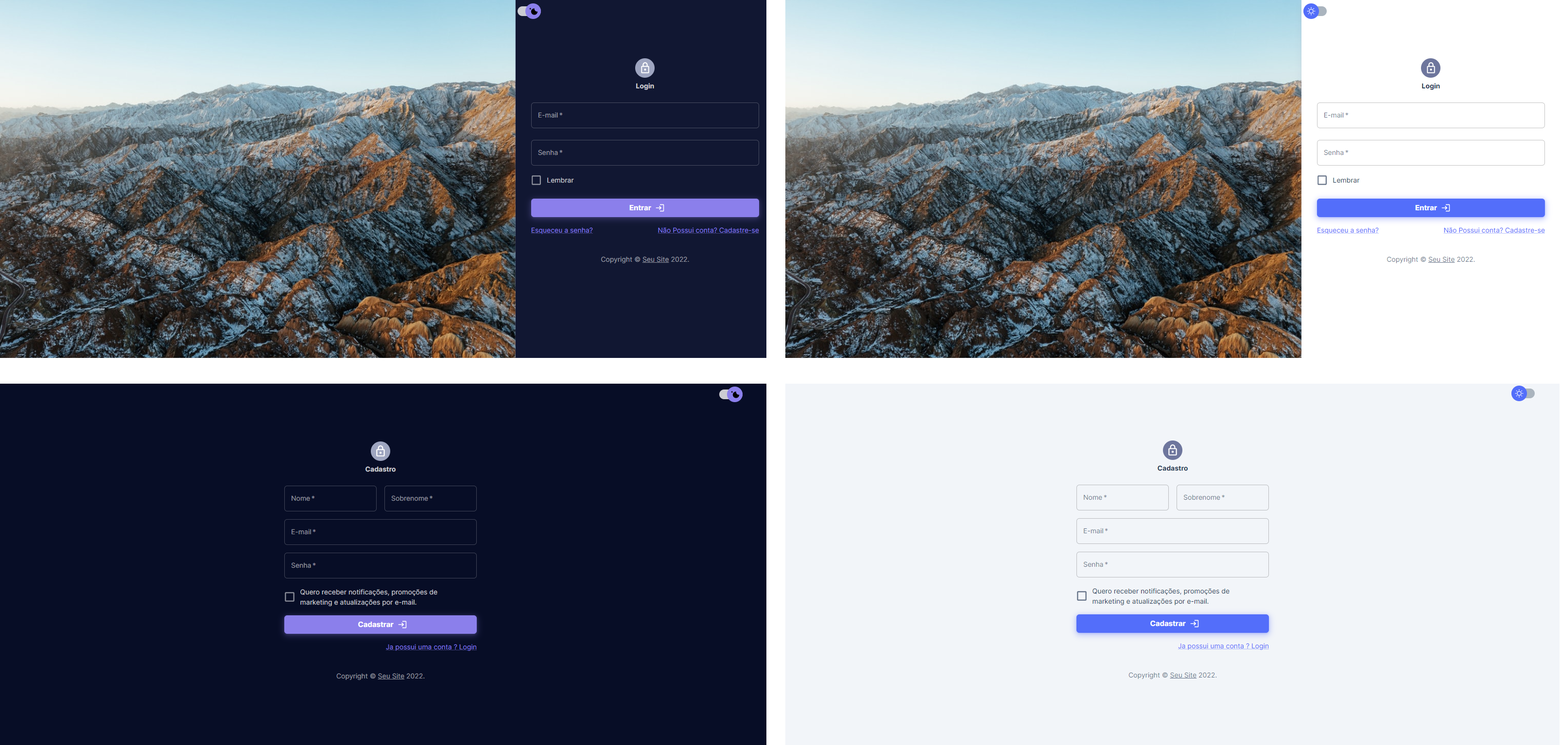
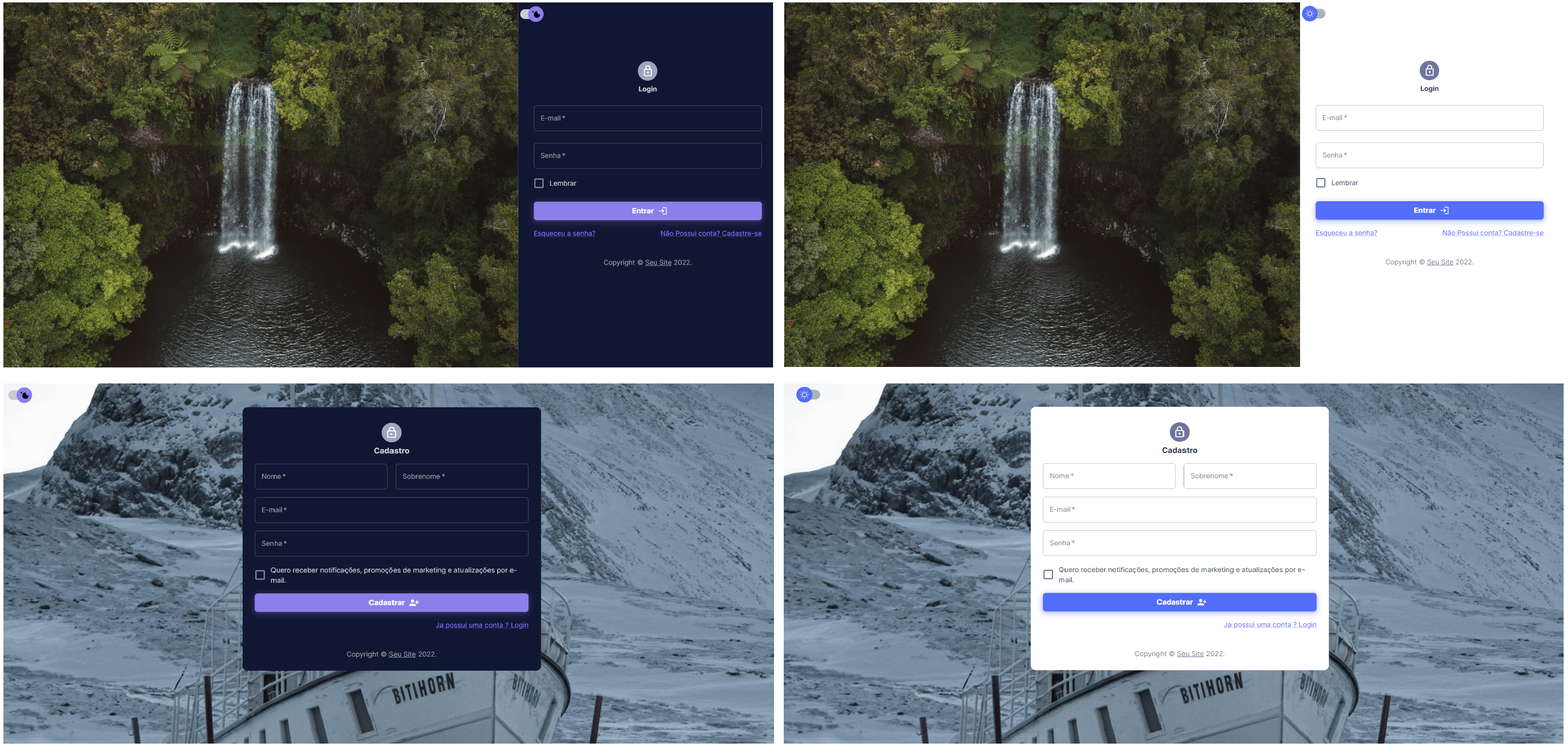
Otimização css dos containers da tela de cadastro

diff --git a/src/pages/SignUp.tsx b/src/pages/SignUp.tsx
@@ -5,11 +5,11 @@ import PersonAddAlt1Icon from '@mui/icons-material/PersonAddAlt1';
 import Avatar from '@mui/material/Avatar';
 import Box from '@mui/material/Box';
 import Checkbox from '@mui/material/Checkbox';
-import Container from '@mui/material/Container';
-import CssBaseline from '@mui/material/CssBaseline';
+import Container, { ContainerProps } from '@mui/material/Container';
 import FormControlLabel from '@mui/material/FormControlLabel';
 import Grid from '@mui/material/Grid';
 import Link from '@mui/material/Link';
+import { styled } from '@mui/material/styles';
 import TextField from '@mui/material/TextField';
 import Typography from '@mui/material/Typography';
 import AuthButton from 'components/elements/AuthButton';
@@ -17,6 +17,28 @@ import Switch from 'components/elements/Switch';
 import Copyright from 'components/widgets/Copyright';
 import { useTheme } from 'core/hooks/useTheme';
 import React, { ChangeEvent, FormEvent, useState } from 'react';
+
+//import LoginBackground from './../assets/login-background.png';
+
+const BackgroundContainer = styled(Container)<ContainerProps>(() => ({
+  backgroundImage: 'url(https://source.unsplash.com/random)',
+  backgroundRepeat: 'no-repeat',
+  backgroundSize: 'cover',
+  backgroundPosition: 'center',
+  minHeight: '100vh',
+  minWidth: '100vw',
+}));
+
+const SignupContainer = styled(Container)<ContainerProps>(({ theme }) => ({
+  display: 'flex',
+  flexDirection: 'column',
+  alignItems: 'center',
+  justifyContent: 'center',
+  padding: theme.spacing(3, 1),
+  backgroundColor: theme.palette.background.paper,
+  borderRadius: theme.general.borderRadiusLg,
+  boxShadow: theme.sidebar.boxShadow,
+}));
 
 const SignUp: React.FC = () => {
   const handleSubmit = (event: FormEvent<HTMLFormElement>) => {
@@ -43,102 +65,83 @@ const SignUp: React.FC = () => {
   };
 
   return (
-    <React.Fragment>
-      <Container
-        maxWidth="xl"
-        sx={{
-          margin: 0,
-          display: 'flex',
-          justifyContent: 'end',
-        }}
-      >
-        <Switch checked={checked} onChange={changeThemeHandle} />
-      </Container>
-      <Container component="main" maxWidth="xs">
-        <CssBaseline />
-        <Box
-          sx={{
-            marginTop: 8,
-            display: 'flex',
-            flexDirection: 'column',
-            alignItems: 'center',
-          }}
-        >
-          <Avatar sx={{ m: 1, bgcolor: 'secondary.main' }}>
-            <LockOutlinedIcon />
-          </Avatar>
-          <Typography component="h1" variant="h5">
-            Cadastro
-          </Typography>
-          <Box component="form" noValidate onSubmit={handleSubmit} sx={{ mt: 3 }}>
-            <Grid container spacing={2}>
-              <Grid item xs={12} sm={6}>
-                <TextField
-                  autoComplete="given-name"
-                  name="firstName"
-                  required
-                  fullWidth
-                  id="firstName"
-                  label="Nome"
-                  autoFocus
-                />
-              </Grid>
-              <Grid item xs={12} sm={6}>
-                <TextField
-                  required
-                  fullWidth
-                  id="lastName"
-                  label="Sobrenome"
-                  name="lastName"
-                  autoComplete="family-name"
-                />
-              </Grid>
-              <Grid item xs={12}>
-                <TextField
-                  required
-                  fullWidth
-                  id="email"
-                  label="E-mail"
-                  name="email"
-                  autoComplete="email"
-                />
-              </Grid>
-              <Grid item xs={12}>
-                <TextField
-                  required
-                  fullWidth
-                  name="password"
-                  label="Senha"
-                  type="password"
-                  id="password"
-                  autoComplete="new-password"
-                />
-              </Grid>
-              <Grid item xs={12}>
-                <FormControlLabel
-                  control={<Checkbox value="allowExtraEmails" color="primary" />}
-                  label="Quero receber notificações, promoções de marketing e atualizações por e-mail."
-                />
-              </Grid>
+    <BackgroundContainer>
+      <Switch checked={checked} onChange={changeThemeHandle} />
+      <SignupContainer maxWidth="sm">
+        <Avatar sx={{ m: 1, bgcolor: 'secondary.main' }}>
+          <LockOutlinedIcon />
+        </Avatar>
+        <Typography component="h1" variant="h4">
+          Cadastro
+        </Typography>
+        <Box component="form" noValidate onSubmit={handleSubmit} sx={{ mt: 2 }}>
+          <Grid container spacing={2}>
+            <Grid item xs={12} sm={6}>
+              <TextField
+                autoComplete="given-name"
+                name="firstName"
+                required
+                fullWidth
+                id="firstName"
+                label="Nome"
+                autoFocus
+              />
             </Grid>
-            <AuthButton
-              type="submit"
-              disabled={false}
-              label="Cadastrar"
-              icon={<PersonAddAlt1Icon />}
-            />
-            <Grid container justifyContent="flex-end">
-              <Grid item>
-                <Link href="/signin" variant="body2">
-                  Ja possui uma conta ? Login
-                </Link>
-              </Grid>
+            <Grid item xs={12} sm={6}>
+              <TextField
+                required
+                fullWidth
+                id="lastName"
+                label="Sobrenome"
+                name="lastName"
+                autoComplete="family-name"
+              />
             </Grid>
-          </Box>
+            <Grid item xs={12}>
+              <TextField
+                required
+                fullWidth
+                id="email"
+                label="E-mail"
+                name="email"
+                autoComplete="email"
+              />
+            </Grid>
+            <Grid item xs={12}>
+              <TextField
+                required
+                fullWidth
+                name="password"
+                label="Senha"
+                type="password"
+                id="password"
+                autoComplete="new-password"
+              />
+            </Grid>
+            <Grid item xs={12}>
+              <FormControlLabel
+                control={<Checkbox value="allowExtraEmails" color="primary" />}
+                label="Quero receber notificações, promoções de marketing e atualizações por e-mail."
+              />
+            </Grid>
+          </Grid>
+          <AuthButton
+            type="submit"
+            disabled={false}
+            label="Cadastrar"
+            icon={<PersonAddAlt1Icon />}
+          />
+          <Grid container justifyContent="flex-end">
+            <Grid item>
+              <Link href="/signin" variant="body2">
+                Ja possui uma conta ? Login
+              </Link>
+            </Grid>
+          </Grid>
         </Box>
         <Copyright text="Seu Site" redirectUrl="https://mui.com" />
-      </Container>
-    </React.Fragment>
+      </SignupContainer>
+    </BackgroundContainer>
   );
 };
 

diff --git a/src/pages/SignIn.tsx b/src/pages/SignIn.tsx
@@ -59,7 +59,6 @@ const SignIn: React.FC = () => {
         />
         <Grid item xs={12} sm={8} md={4} component={Paper} elevation={6} square>
           <Switch checked={checked} onChange={changeThemeHandle} />
-
           <Box
             sx={{
               my: 8,
